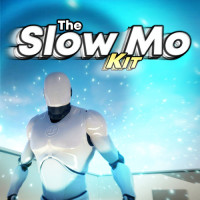
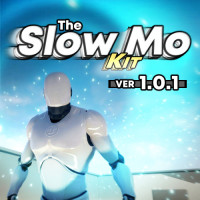
Updated docs to Slow Mo 1.0.1

Changed region(s): [[0.54, 0.36, 0.96, 0.48]]

diff --git a/docs/TheSlowMoKit/nodes/index.html b/docs/TheSlowMoKit/nodes/index.html
@@ -413,9 +413,19 @@
 <ul>
 <li>
 <p><strong>IsSlowMoActive</strong>  </p>
-<p>Current status of the Slow Mo effect.<br />
-Returns <vr>true</vr> if Slow Mo is active, returns <vr>false</vr> otherwise.    </p>
+<p>Current status of the Slow Mo effect.  </p>
 <p><img alt="GET_IsSlowMoActive" src="../images/GET_IsSlowMoActive.jpg" title="GET_IsSlowMoActive" /></p>
+<p>@IsSlowMoActive Returns <vr>true</vr> if Slow Mo is active, returns <vr>false</vr> otherwise.    </p>
+</li>
+<li>
+<p><strong>GetTimedProgress</strong>  </p>
+<p>Current status of the time limited Slow Mo effect.  </p>
+<p><img alt="FX_GetTimedProgress" src="../images/FX_GetTimedProgress.jpg" title="FX_GetTimedProgress" /></p>
+<p>@IsActive returns <vr>true</vr> if time limited slow mo is activated, returns <vr>false</vr> otherwise.<br />
+@Count is the amount of time that has passed since TimedSlowMotion is called, value in seconds.<br />
+@Duration is the lifetime of the Slow Mo effect, how long it should last, value in seconds.<br />
+@Progress is the percentage of Count/Duration, value ranges from 0 to 1, 1 means the duration is complete.  </p>
+<p>See <strong>OnTimedUpdated</strong> to access these values from an event.  </p>
 </li>
 </ul>
 <hr />
@@ -495,6 +505,13 @@ Make sure to call <fx>UpdateSettings</fx> afterwards to finalize the changes.  <
 <p>Turn the Slow Mo status on/off, depending on the value of <fx>IsSlowMoActive</fx></p>
 <p><img alt="FX_ToggleSlowMotion" src="../images/FX_ToggleSlowMotion.jpg" title="FX_ToggleSlowMotion" /></p>
 </li>
+<li>
+<p><strong>Timed Slow Motion</strong></p>
+<p>Trigger a time limited Slow Mo, effect will automatically stops after the given duration is passed.<br />
+@Duration is in seconds.  </p>
+<p>Use either <strong>OnTimedUpdate</strong> or <strong>GetTimedProgress</strong> to track the duration status.  </p>
+<p><img alt="FX_TimedSlowMotion" src="../images/FX_TimedSlowMotion.jpg" title="FX_TimedSlowMotion" /></p>
+</li>
 </ul>
 <hr />
 <h2 id="events">Events</h2>
@@ -518,6 +535,15 @@ Make sure to call <fx>UpdateSettings</fx> afterwards to finalize the changes.  <
 <p><strong>OnSlowMoEnd</strong></p>
 <p>This event will be called when the Slow Mo effect has been turned off completely.</p>
 <p><img alt="Event_OnSlowMoEnd" src="../images/Event_OnSlowMoEnd.jpg" title="Event_OnSlowMoEnd" />  </p>
+</li>
+<li>
+<p><strong>OnTimedUpdated</strong></p>
+<p>This event will be called when the time limited Slow Mo values are updated.  </p>
+<p><img alt="Event_OnTimedUpdated" src="../images/Event_OnTimedUpdated.jpg" title="Event_OnTimedUpdated" /> </p>
+<p>@TimeCount is the amount of time that has passed since TimedSlowMotion is called, value in seconds.<br />
+@Duration is the lifetime of the Slow Mo effect, how long it should last, value in seconds.<br />
+@Progress is the percentage of TimeCount/Duration, value ranges from 0 to 1, 1 means the duration is complete.  </p>
+<p>These values can also be accessed using the <strong>GetTimedProgress</strong> function.  </p>
 </li>
 </ul>
 <hr />

diff --git a/docs/TheSlowMoKit/setup/index.html b/docs/TheSlowMoKit/setup/index.html
@@ -396,15 +396,16 @@
 <ul>
 <li>
 <p>Next, you will need to add the functions required to activate/deactivate the slow motion effect.<br />
-    There are 3 nodes that you can use for this.</p>
+    There are 4 nodes that you can use for this.</p>
 <ul>
 <li><strong>StartSlowMotion</strong>, as the name implied, used to start the slow motion effect.  </li>
 <li><strong>StopSlowMotion</strong>, as the name implied, used to stop the slow motion effect.  </li>
 <li><strong>ToggleSlowMotion</strong>, this will toggle the slow motion effect on/off, depending on the current state.  </li>
+<li><strong>TimedSlowMotion</strong>, this will trigger a timed slow motion effect that will last until the given duration (in seconds) is passed.  </li>
 </ul>
-<p><img alt="Triggers" src="../images/Triggers.jpg" title="Triggers" /></p>
+<p><img alt="Triggers2" src="../images/Triggers2.jpg" title="Triggers2" /></p>
 <hr />
-<p>There's at least 2 common ways on how to use these functions.  </p>
+<p>There's at least 3 common ways on how to use these functions.  </p>
 <ul>
 <li>
 <p>If you wish to start/stop the slow motion using a single button press,<br />
@@ -415,6 +416,12 @@
 <p>If you wish to activate the slow motion when a button/trigger is being held down,<br />
     connect the button press input to <strong>StartSlowMotion</strong>, and the button release input to <strong>StopSlowMotion</strong>.  </p>
 <p><img alt="Activation02" src="../images/Activation02.jpg" title="Activation02" /></p>
+</li>
+<li>
+<p>If you wish to activate the slow motion effect, but only for a limited time/duration,<br />
+    you can substitute the StartSlowMotion node in Activation02 and replace it with the <strong>TimedSlowMotion</strong> node instead.<br />
+    Set the duration (in seconds) of the Slow Mo effect in the duration parameter.  </p>
+<p><img alt="Activation03" src="../images/Activation03.jpg" title="Activation03" /></p>
 </li>
 </ul>
 </li>

diff --git a/docs/TheSlowMoKit/versionhistory/index.html b/docs/TheSlowMoKit/versionhistory/index.html
@@ -232,6 +232,13 @@
     <ul class="md-nav__list" data-md-component="toc" data-md-scrollfix>
       
         <li class="md-nav__item">
+  <a href="#ver-101" class="md-nav__link">
+    Ver 1.0.1
+  </a>
+  
+</li>
+      
+        <li class="md-nav__item">
   <a href="#ver-100" class="md-nav__link">
     Ver 1.0.0
   </a>
@@ -317,6 +324,13 @@
     <ul class="md-nav__list" data-md-component="toc" data-md-scrollfix>
       
         <li class="md-nav__item">
+  <a href="#ver-101" class="md-nav__link">
+    Ver 1.0.1
+  </a>
+  
+</li>
+      
+        <li class="md-nav__item">
   <a href="#ver-100" class="md-nav__link">
     Ver 1.0.0
   </a>
@@ -338,6 +352,14 @@
                 
                 <h1 id="the-slow-mo-kit-version-history">The Slow Mo Kit - Version History</h1>
 <hr />
+<h2 id="ver-101">Ver 1.0.1</h2>
+<ul>
+<li>Added time limited Slow Mo activation system  </li>
+<li>Added some example demo UIs on how to connect with the time limited Slow Mo system  </li>
+<li>Blueprints related to Demo UI are now moved inside the Content/TheSlowMoKit/Demo/UI folder  </li>
+<li>UI setups are relocated from SlowMoCharacter to HUD_SlowMoDemo  </li>
+<li>On the Demo Map, renamed ThirdPersonCharacter to SlowMoCharacter  </li>
+</ul>
 <h2 id="ver-100">Ver 1.0.0</h2>
 <ul>
 <li>Simple component based setup for starting/stopping time dilation  </li>

diff --git a/docs/TheSlowMoKit/index.html b/docs/TheSlowMoKit/index.html
@@ -360,7 +360,7 @@
 
 <hr />
 <h2 id="introduction">Introduction</h2>
-<p>This is the documentation for The Slow Mo Kit package, last updated for <strong>Version 1.0.0</strong>.  </p>
+<p>This is the documentation for The Slow Mo Kit package, last updated for <strong>Version 1.0.1</strong>.  </p>
 <p>The following documentation is presented as a guide on how to setup the package and use it inside your project.<br />
 This documentation is written for Unreal Editor version 4.21.2 and higher.<br />
 Basic knowledge on how to navigate through the Unreal Editor is expected.</p>
